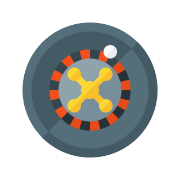
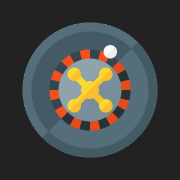
Updated splash screen (bg color)

diff --git a/index.html b/index.html
@@ -1,21 +1,63 @@
 <!DOCTYPE html>
 <html lang="en">
-  <head>
-    <meta name="viewport" content="width=device-width, initial-scale=1.0" />
-    <meta charset="UTF-8" />
-    <title>KIT Vorlesungs Roulette</title>
-    <meta name="description" content="Random KIT Vorlesung">
+<head>
+  <meta name="viewport" content="width=device-width, initial-scale=1.0"/>
+  <meta charset="UTF-8"/>
+  <title>KIT Vorlesungs Roulette</title>
+  <meta name="description" content="Random KIT Vorlesung">
 
-<!--    <link rel="apple-touch-icon" href="/apple-touch-icon.png" sizes="180x180">-->
-    <link rel="mask-icon" href="pwa-icons/manifest-icon-512.maskable.png" color="#FFFFFF">
-    <meta name="theme-color" content="#333333">
+  <!--    <link rel="apple-touch-icon" href="/apple-touch-icon.png" sizes="180x180">-->
+  <link rel="mask-icon" href="/pwa-icons/manifest-icon-512.maskable.png" color="#FFFFFF">
+  <meta name="theme-color" content="#333333">
 
-    <link rel='icon' type='image/png' href='/favicon.png'>
+  <link rel='icon' type='image/png' href='/favicon.png'>
+
+  <link rel="apple-touch-icon" href="/pwa-icons/apple-icon-180.png">
+
+  <meta name="apple-mobile-web-app-capable" content="yes">
+
+  <link rel="apple-touch-startup-image" href="/pwa-icons/apple-splash-2048-2732.jpg" media="(device-width: 1024px) and (device-height: 1366px) and (-webkit-device-pixel-ratio: 2) and
+(orientation: portrait)">
+  <link rel="apple-touch-startup-image" href="/pwa-icons/apple-splash-2732-2048.jpg" media="(device-width: 1024px) and (device-height: 1366px) and (-webkit-device-pixel-ratio: 2) and
+(orientation: landscape)">
+  <link rel="apple-touch-startup-image" href="/pwa-icons/apple-splash-1668-2388.jpg" media="(device-width: 834px) and (device-height: 1194px) and (-webkit-device-pixel-ratio: 2) and (
+orientation: portrait)">
+  <link rel="apple-touch-startup-image" href="/pwa-icons/apple-splash-2388-1668.jpg" media="(device-width: 834px) and (device-height: 1194px) and (-webkit-device-pixel-ratio: 2) and (
+orientation: landscape)">
+  <link rel="apple-touch-startup-image" href="/pwa-icons/apple-splash-1536-2048.jpg" media="(device-width: 768px) and (device-height: 1024px) and (-webkit-device-pixel-ratio: 2) and (
+orientation: portrait)">
+  <link rel="apple-touch-startup-image" href="/pwa-icons/apple-splash-2048-1536.jpg" media="(device-width: 768px) and (device-height: 1024px) and (-webkit-device-pixel-ratio: 2) and (
+orientation: landscape)">
+  <link rel="apple-touch-startup-image" href="/pwa-icons/apple-splash-1668-2224.jpg" media="(device-width: 834px) and (device-height: 1112px) and (-webkit-device-pixel-ratio: 2) and (
+orientation: portrait)">
+  <link rel="apple-touch-startup-image" href="/pwa-icons/apple-splash-2224-1668.jpg" media="(device-width: 834px) and (device-height: 1112px) and (-webkit-device-pixel-ratio: 2) and (
+orientation: landscape)">
+  <link rel="apple-touch-startup-image" href="/pwa-icons/apple-splash-1620-2160.jpg" media="(device-width: 810px) and (device-height: 1080px) and (-webkit-device-pixel-ratio: 2) and (
+orientation: portrait)">
+  <link rel="apple-touch-startup-image" href="/pwa-icons/apple-splash-2160-1620.jpg" media="(device-width: 810px) and (device-height: 1080px) and (-webkit-device-pixel-ratio: 2) and (
+orientation: landscape)">
+  <link rel="apple-touch-startup-image" href="/pwa-icons/apple-splash-1284-2778.jpg" media="(device-width: 428px) and (device-height: 926px) and (-webkit-device-pixel-ratio: 3) and (o
+rientation: portrait)">
+  <link rel="apple-touch-startup-image" href="/pwa-icons/apple-splash-2778-1284.jpg" media="(device-width: 428px) and (device-height: 926px) and (-webkit-device-pixel-ratio: 3) and (o
+rientation: landscape)">
+  <link rel="apple-touch-startup-image" href="/pwa-icons/apple-splash-1170-2532.jpg" media="(device-width: 390px) and (device-height: 844px) and (-webkit-device-pixel-ratio: 3) and (o
+rientation: portrait)">
+  rientation: portrait)">
+  <link rel="apple-touch-startup-image" href="/pwa-icons/apple-splash-2208-1242.jpg" media="(device-width: 414px) and (device-height: 736px) and (-webkit-device-pixel-ratio: 3) and (o
+rientation: landscape)">
+  <link rel="apple-touch-startup-image" href="/pwa-icons/apple-splash-750-1334.jpg" media="(device-width: 375px) and (device-height: 667px) and (-webkit-device-pixel-ratio: 2) and (or
+ientation: portrait)">
+  <link rel="apple-touch-startup-image" href="/pwa-icons/apple-splash-1334-750.jpg" media="(device-width: 375px) and (device-height: 667px) and (-webkit-device-pixel-ratio: 2) and (or
+ientation: landscape)">
+  <link rel="apple-touch-startup-image" href="/pwa-icons/apple-splash-640-1136.jpg" media="(device-width: 320px) and (device-height: 568px) and (-webkit-device-pixel-ratio: 2) and (or
+ientation: portrait)">
+  <link rel="apple-touch-startup-image" href="/pwa-icons/apple-splash-1136-640.jpg" media="(device-width: 320px) and (device-height: 568px) and (-webkit-device-pixel-ratio: 2) and (or
+ientation: landscape)">
 
 
-  </head>
-  <body>
-    <div id="app"></div>
-    <script type="module" src="/src/main.ts"></script>
-  </body>
+</head>
+<body>
+<div id="app"></div>
+<script type="module" src="/src/main.ts"></script>
+</body>
 </html>
